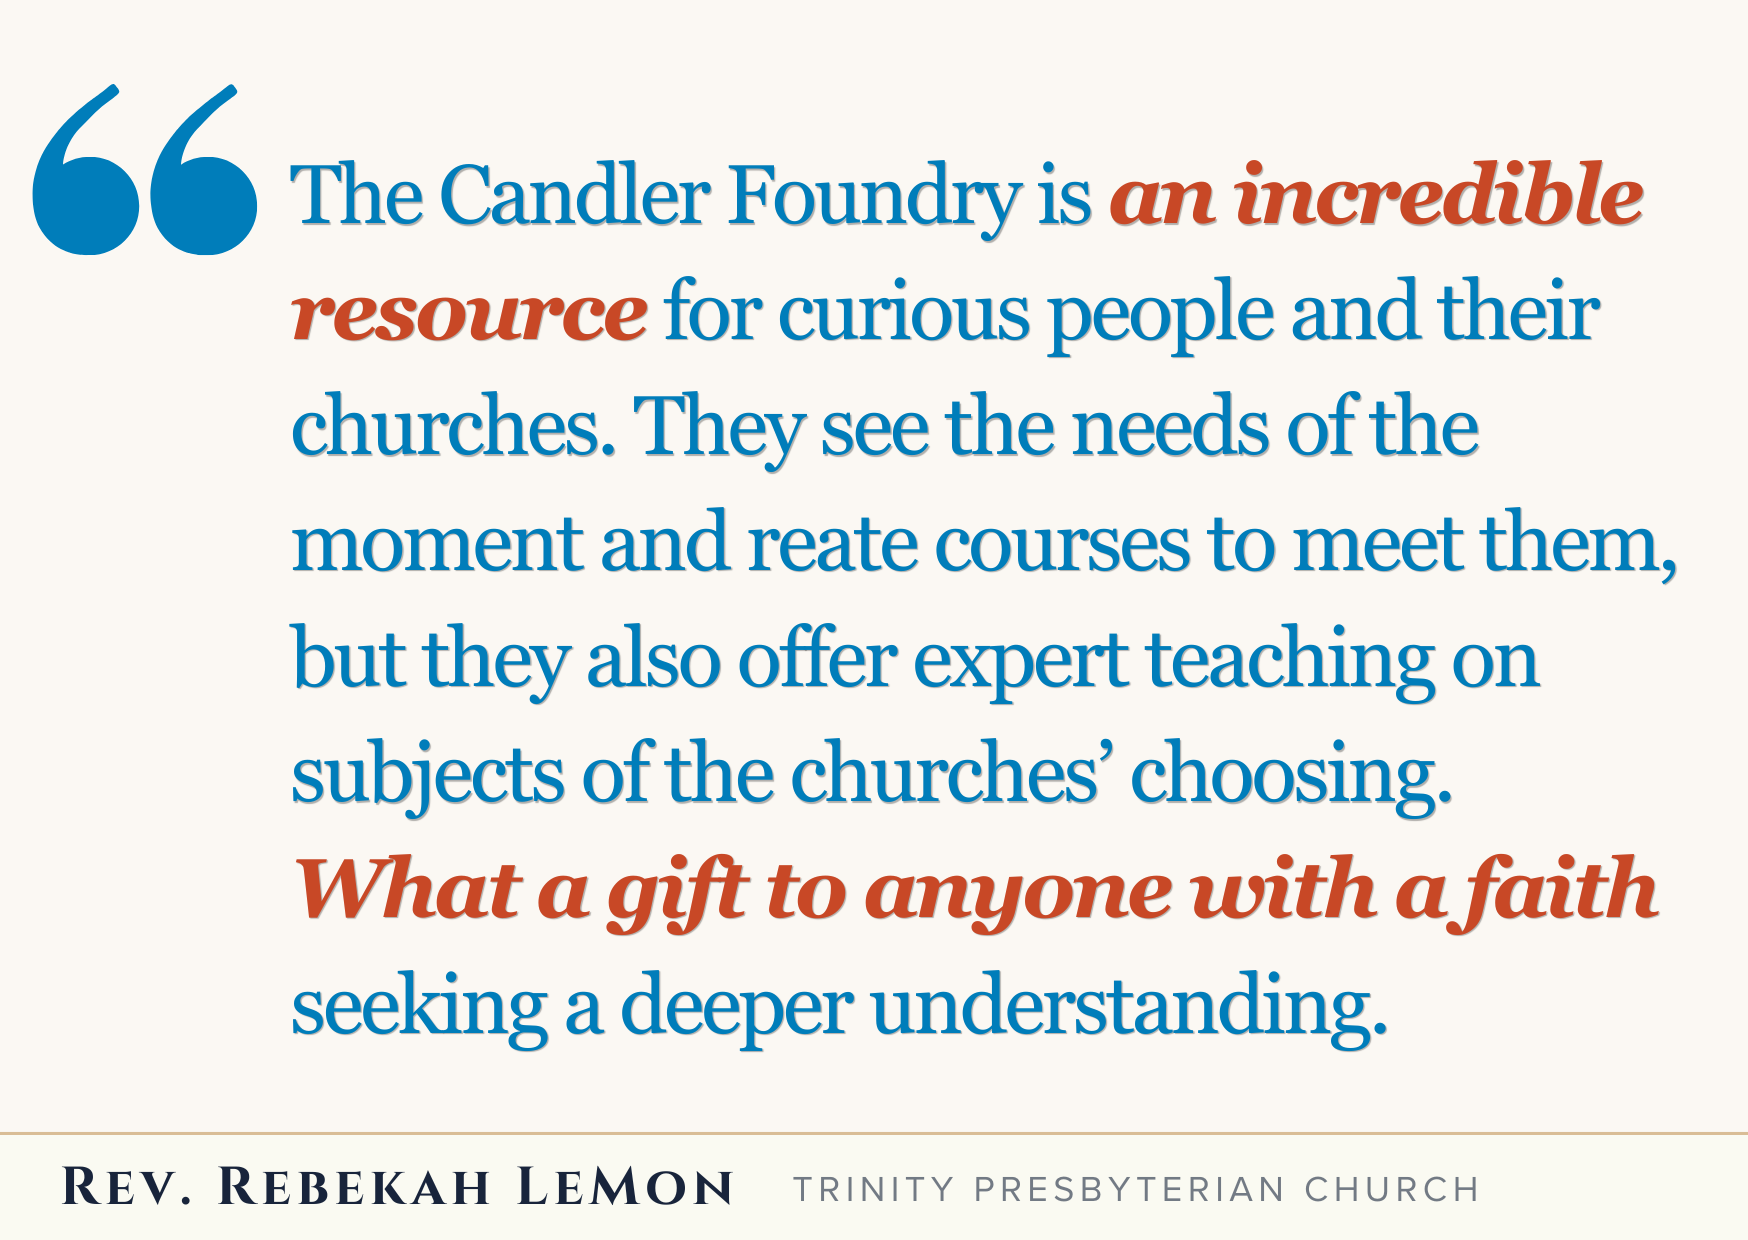
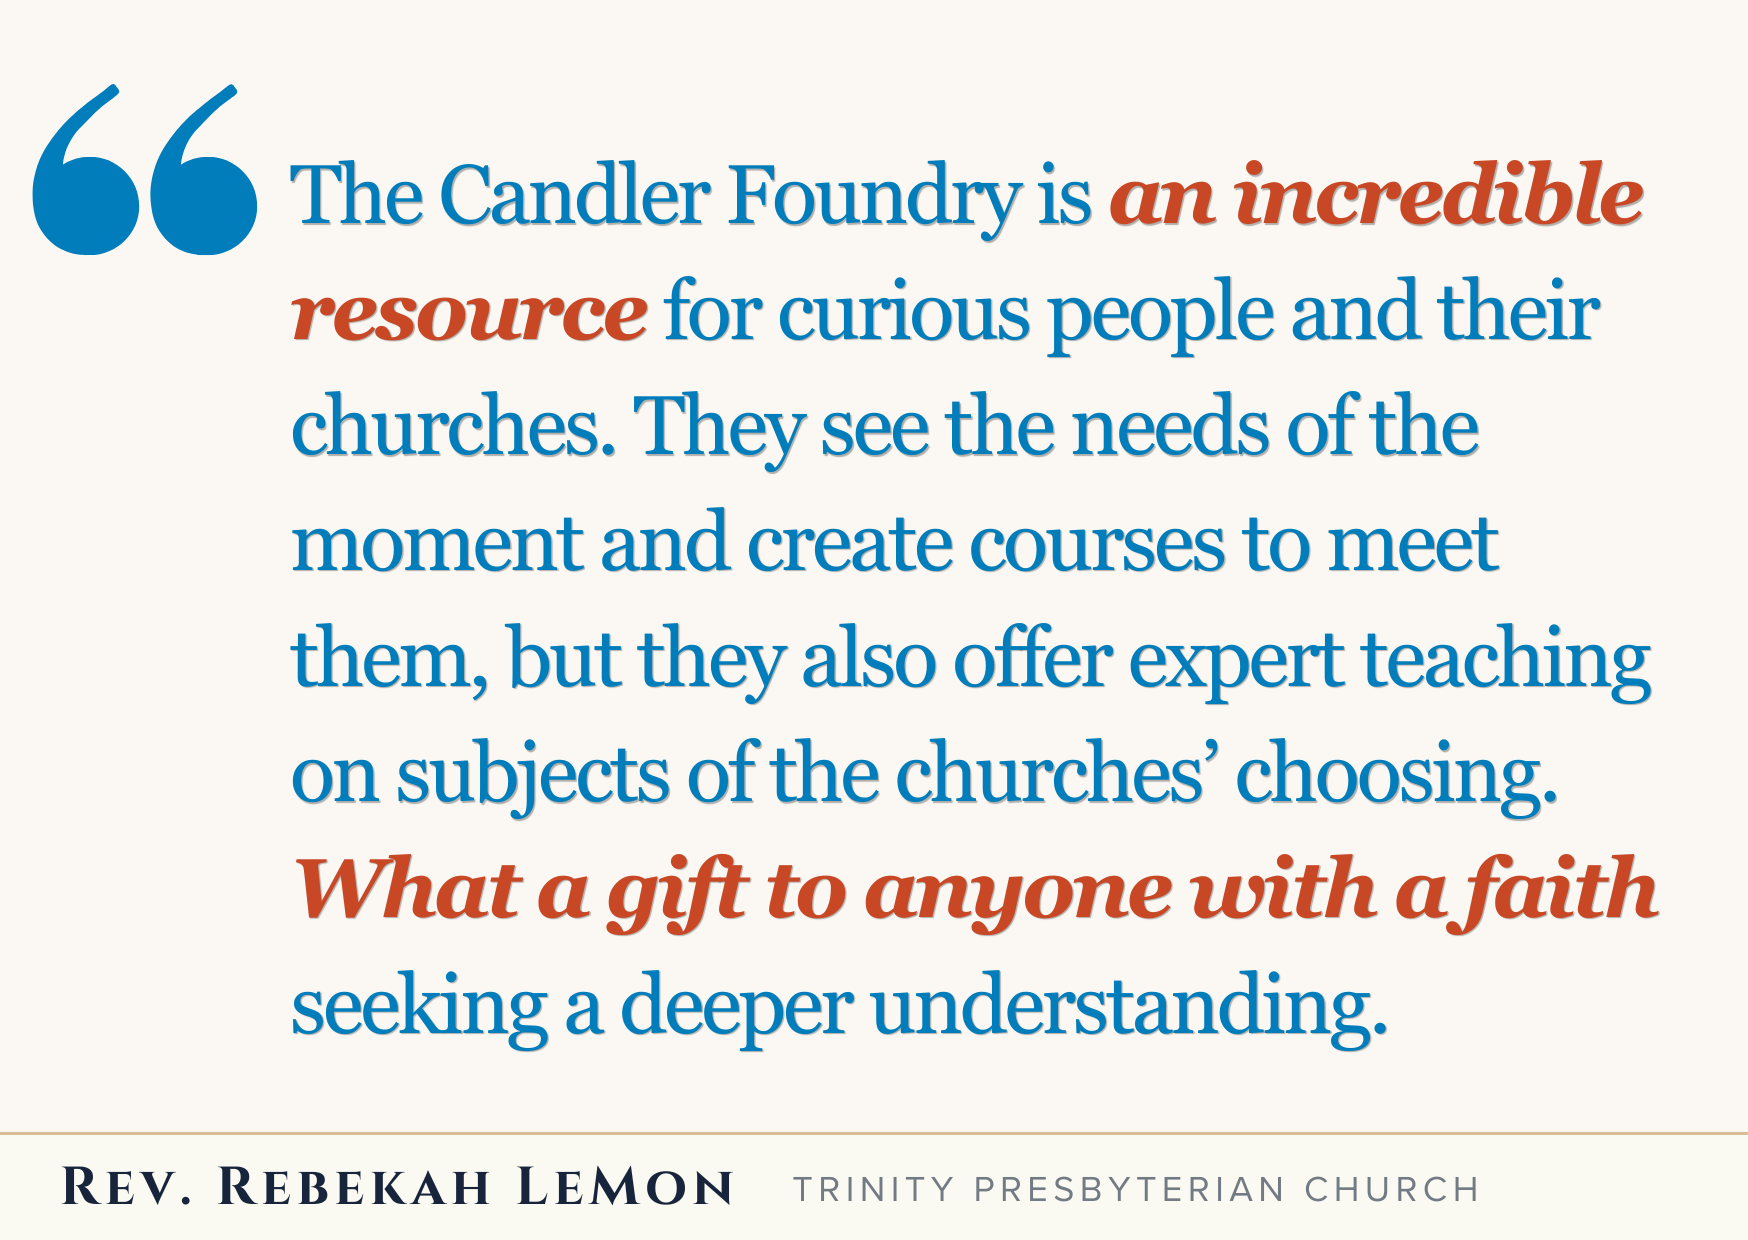
Add Dr. Bo Adams (faculty) card; fix Rebekah LeMon back typo
- Bo Adams joins Faculty & Staff as a flipping card, placed among the
  back cards before the front-only ones.
- Replace Rebekah LeMon back with corrected art ("reate" -> "create courses to meet").

Changed region(s): [[0.1545, 0.4903, 0.9577, 0.6742], [0.4325, 0.3984, 0.9577, 0.4597]]

diff --git a/index.html b/index.html
@@ -7184,6 +7184,7 @@ var CI_STORY_PAGE = {
           clip: { vimeo: 'https://vimeo.com/1198469430', caption: 'Watch a 3 Minute Bible sample', videoTitle: '3 Minute Bible · The Candler Foundry' } },
         { frontImage: '/assets/candler-impact-cards/sam-martinez.png',         backImage: '/assets/candler-impact-cards/sam-martinez-back.png', name: 'Sam Martinez', role: 'Candler Admissions',          width: CI_IMAGE_CARD_WIDTH, surface: CI_IMAGE_CARD_SURFACE, ink: CI_IMAGE_CARD_INK },
         { frontImage: '/assets/candler-impact-cards/susan-hylen.png',          backImage: '/assets/candler-impact-cards/susan-hylen-back.png',  name: 'Dr. Susan Hylen', role: 'Candler School of Theology', width: CI_IMAGE_CARD_WIDTH, surface: CI_IMAGE_CARD_SURFACE, ink: CI_IMAGE_CARD_INK },
+        { frontImage: '/assets/candler-impact-cards/bo-adams.png',             backImage: '/assets/candler-impact-cards/bo-adams-back.png',     name: 'Dr. Bo Adams', role: 'Candler School of Theology', width: CI_IMAGE_CARD_WIDTH, surface: CI_IMAGE_CARD_SURFACE, ink: CI_IMAGE_CARD_INK },
         { frontImage: '/assets/candler-impact-cards/joel-kemp.png',            name: 'Dr. Joel B. Kemp',     role: 'Assistant Professor of Hebrew Bible',   width: CI_IMAGE_CARD_WIDTH, surface: CI_IMAGE_CARD_SURFACE, ink: CI_IMAGE_CARD_INK },
         { frontImage: '/assets/candler-impact-cards/joanne-solis-walker.png',  name: 'Dr. Joanne Solis-Walker', role: 'La Mesa Academy',                    width: CI_IMAGE_CARD_WIDTH, surface: CI_IMAGE_CARD_SURFACE, ink: CI_IMAGE_CARD_INK }
       ]

diff --git a/CANONICAL.md b/CANONICAL.md
@@ -47,10 +47,10 @@ Internal divider lines, awkward L-shaped photo sections, and accidental nested b
 ### 2.1 CANDLER IMPACT - IMAGE-FRONT/IMAGE-BACK CARD VARIANT (rewritten 2026-06-02)
 **Rule:** Story cards are fully pre-composed PNGs. The front is the entire designed card art (quote panel, photo, color blocks, AND the name/title banner all baked in). When a card has a back, the back is ALSO a pre-composed PNG. There is **no HTML name overlay** anymore (see history note below). Rounded corners and the multi-layer lift shadow are preserved.
 
-**Lineup — 17 cards across 3 rows (11 have backs, 6 are front-only) (updated 2026-06-04):**
+**Lineup — 18 cards across 3 rows (12 have backs, 6 are front-only) (updated 2026-06-04):**
 Cards with a back OR a clip feature lead each row; plain front-only cards sort to the end (user request, so the richest cards are seen first before the row scrolls).
 - `student-stories` → **Current & Prospective Students** (8): hannah-ford*, tammy-edwards*, kara-nelson*, emmanuel-kwarf*, elle-crosman*, hannah-ripert*, hangil-ryu*, david-cross
-- `faculty-stories` → **Faculty & Staff** (5): elizabeth-arnold (clip), sam-martinez*, susan-hylen*, joel-kemp, joanne-solis-walker
+- `faculty-stories` → **Faculty & Staff** (6): elizabeth-arnold (clip), sam-martinez*, susan-hylen*, bo-adams*, joel-kemp, joanne-solis-walker
 - `alumni-stories` → **Alumni & Partners** (4): carmie-mcdonald (clip), john-vaughn*, rebekah-lemon*, mina-lee
 
 `*` = has a back PNG and flips. The other 6 (david-cross, joel-kemp, elizabeth-arnold, joanne-solis-walker, mina-lee, carmie-mcdonald) are front-only and **must not flip**. Classification follows the user's manual assignment (e.g. Joanne Solis-Walker's banner reads "La Mesa Academy" but she is placed in Faculty & Staff; John Vaughn is a partner placed in Alumni & Partners).
